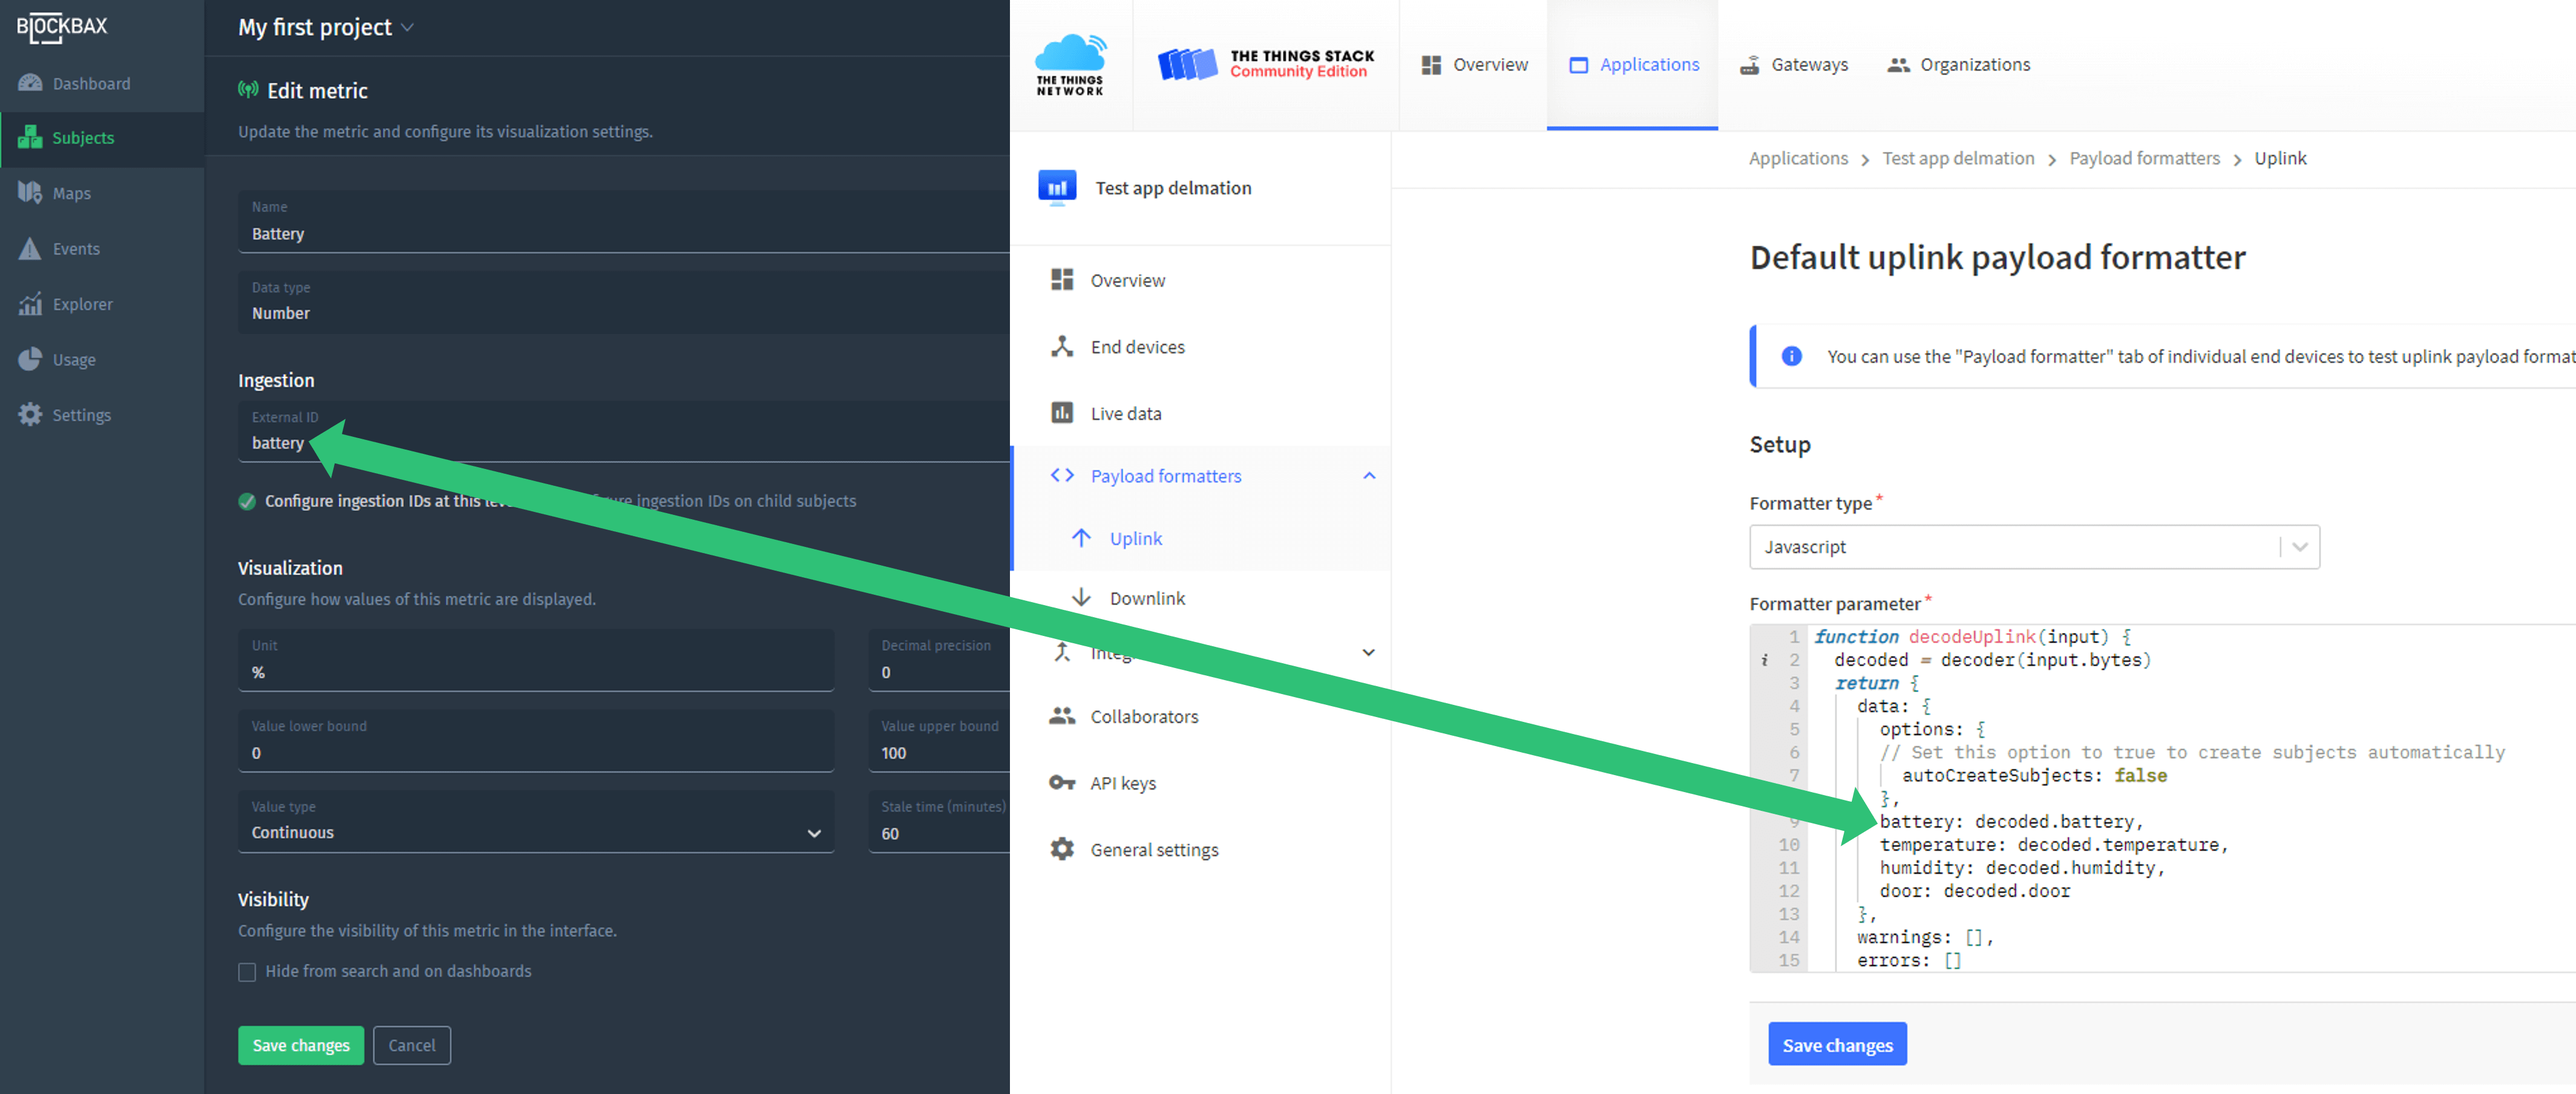
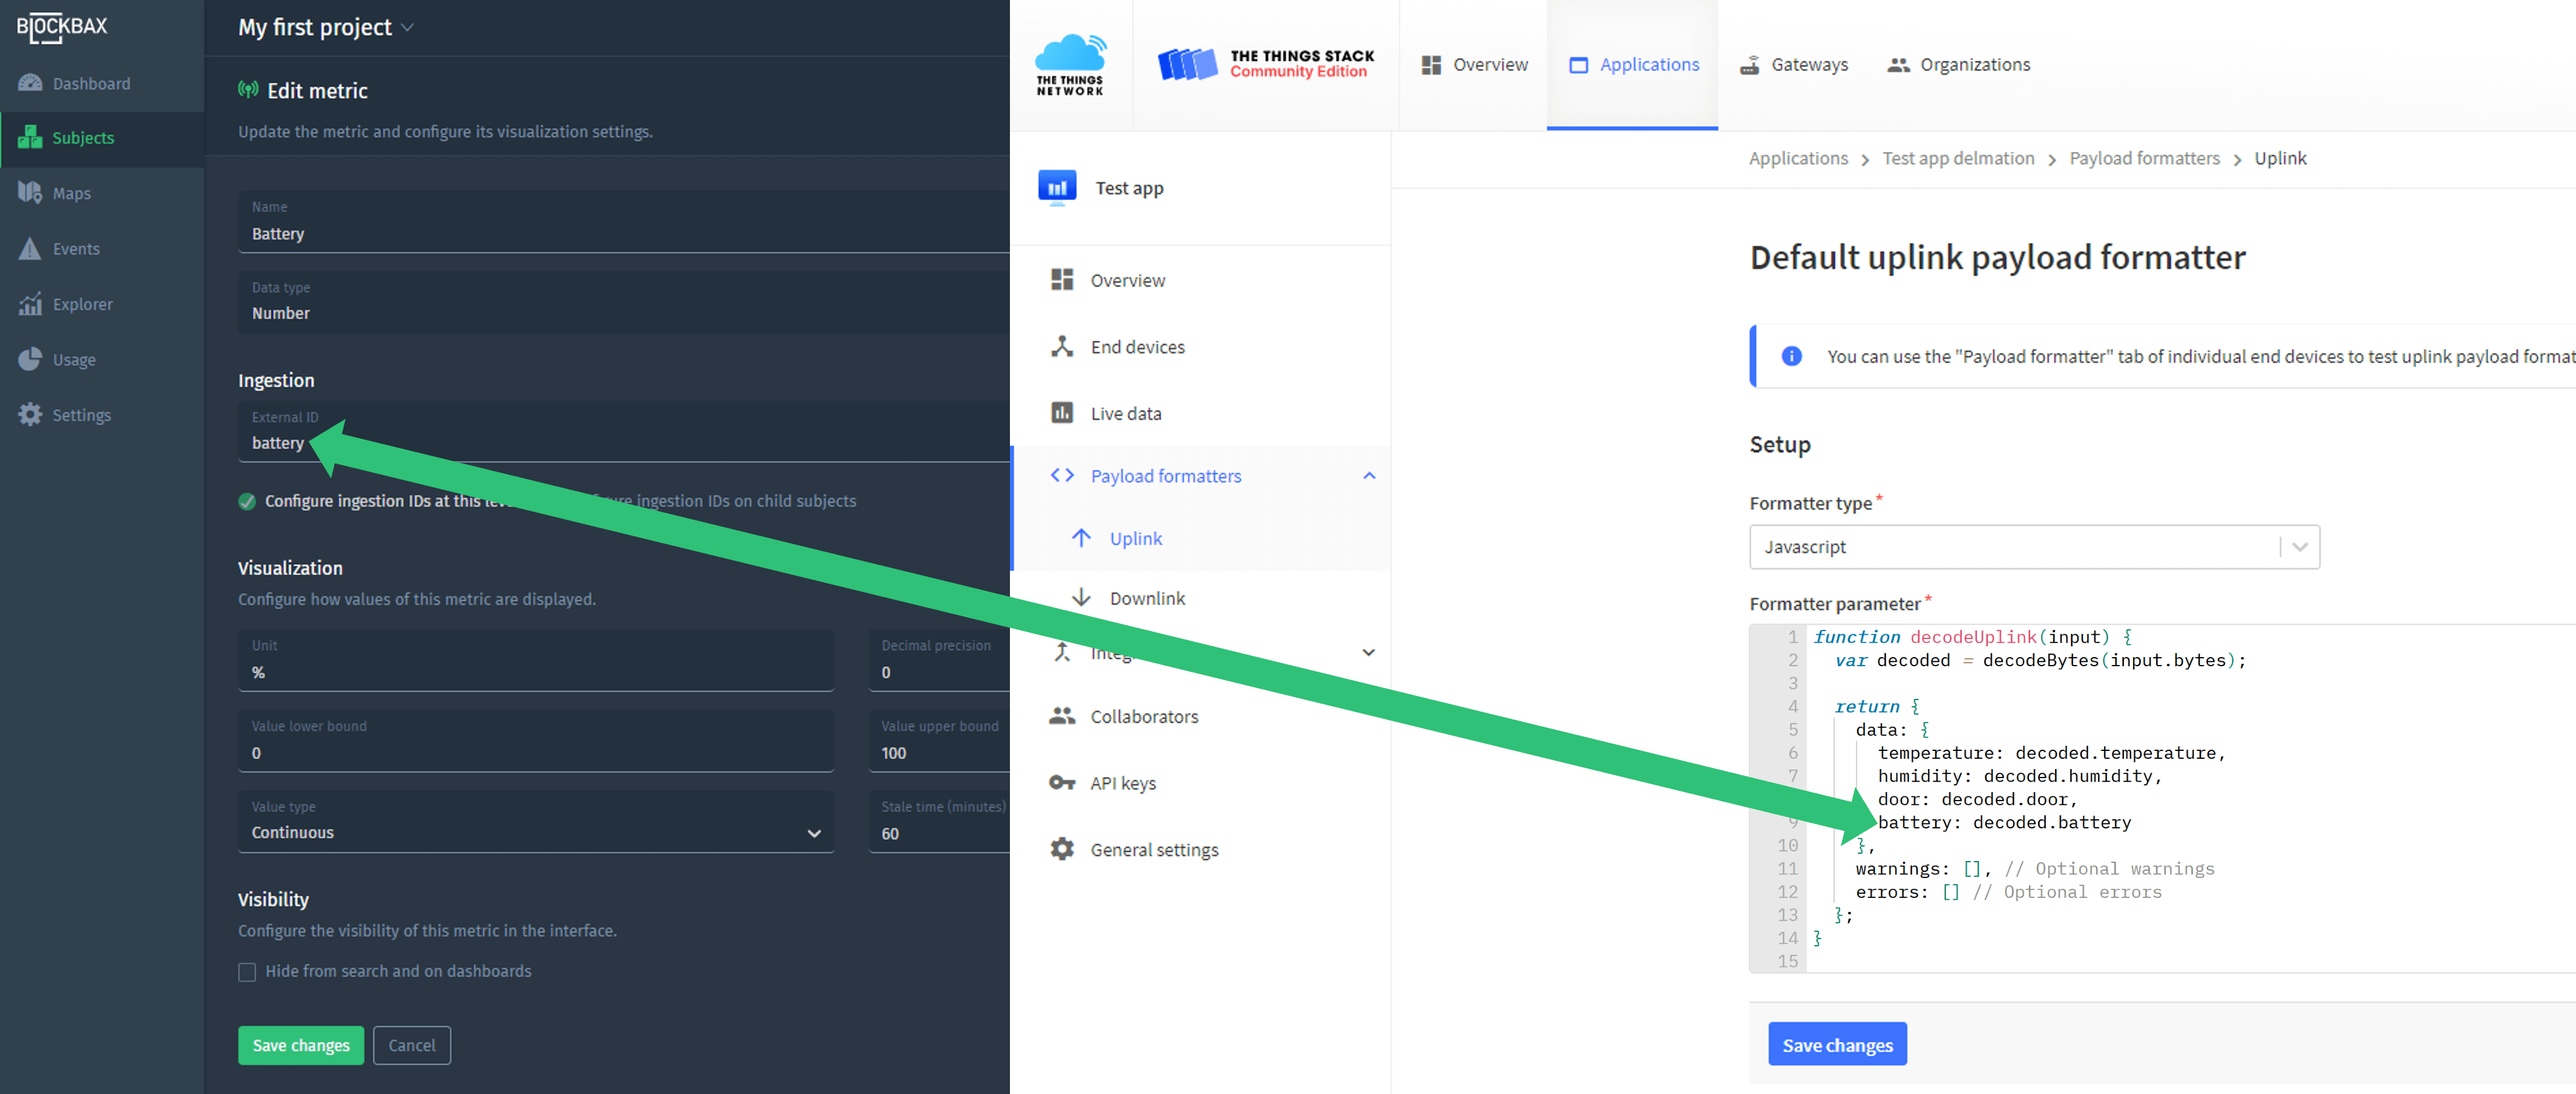
Deploying to gh-pages from  @ 398b8a2e4555d59659201c6cc4f7863cab75a40b 🚀

Changed region(s): [[0.6873, 0.5575, 0.9685, 0.8982], [0.4374, 0.1549, 0.4999, 0.1858]]

diff --git a/integrations/cloud-integrations/blockbax/index.html b/integrations/cloud-integrations/blockbax/index.html
@@ -288,15 +288,15 @@
 </ol>
 <h2 id="blockbax-setup">Blockbax Setup</h2>
 <p><a href="https://login.blockbax.com/">Login</a> to the Blockbax Platform.</p>
-<p>Create a <a href="https://blockbax.com/docs/subjects/#managing-subject-types">subject type</a> and configure metrics. External IDs for these metrics  need to match the property names returned by the uplink payload formatter that will be <a href="https://www.thethingsindustries.com/docs/integrations/cloud-integrations/blockbax/#configure-the-things-stack">configured on The Things Stack</a>.</p>
+<p>Create a <a href="https://blockbax.com/docs/subjects/#managing-subject-types">subject type</a> and configure metrics. External IDs for these metrics need to match the property names returned by the uplink payload formatter that will be <a href="https://www.thethingsindustries.com/docs/integrations/cloud-integrations/blockbax/#configure-the-things-stack">configured on The Things Stack</a>.</p>
 <figure>
     <img src="blockbax-metric-external-id-in-payload.png"
          alt="Relating Blockbax metrics to the Things Stack"/> 
 </figure>
 
-<p>Additionally, you can choose to <a href="https://blockbax.com/docs/subjects/#creating-subjects">create subjects</a> manually with external IDs matching the device IDs. You can also set the <code>autoCreateSubjects</code> option in The Things Stack payload formatter function to <code>true</code>, so in case a subject does not exist, an automatic subject creation will be performed.</p>
 <h2 id="configure-the-things-stack">Configure The Things Stack</h2>
-<p>Make sure your device is added to The Things Stack. See <a href="https://www.thethingsindustries.com/docs/devices/adding-devices/">Adding Devices</a> for more info.</p>
+<p>Make sure your device is added to The Things Stack. See <a href="https://www.thethingsindustries.com/docs/devices/adding-devices/">Adding Devices</a> for more info. Many <a href="https://www.thethingsindustries.com/docs/integrations/payload-formatters/device-repo/">Device Repository</a> payload formatters output payloads such that it can be directly ingested by the Blockbax Platform. If this is not the case, then please follow the instruction below to create a custom payload formatter.</p>
+<h3 id="create-payload-formatter">Create payload formatter</h3>
 <p>On the left menu of your The Things Stack application, select <strong>Payload formatters → Uplink</strong>.</p>
 <p>Select <strong>Javascript</strong> payload formatter type.</p>
 <p>Paste the following contents in the <strong>Formatter parameter</strong> window:</p>
@@ -304,11 +304,6 @@
     <span class="nx">decoded</span> <span class="o">=</span> <span class="nx">decoder</span><span class="p">(</span><span class="nx">input</span><span class="p">.</span><span class="nx">bytes</span><span class="p">)</span>
     <span class="k">return</span> <span class="p">{</span>
         <span class="nx">data</span><span class="o">:</span> <span class="p">{</span>
-            <span class="nx">options</span><span class="o">:</span> <span class="p">{</span>
-                <span class="c1">// Set this option to true to create subjects automatically
-</span><span class="c1"></span>                <span class="nx">autoCreateSubjects</span><span class="o">:</span> <span class="kc">false</span>
-            <span class="p">},</span>
-
             <span class="c1">// For numeric metrics
 </span><span class="c1"></span>            <span class="o">&lt;</span><span class="nx">Blockbax</span><span class="o">-</span><span class="nx">external</span><span class="o">-</span><span class="nx">metric</span><span class="o">-</span><span class="nx">ID</span><span class="o">&gt;:</span> <span class="nx">decoded</span><span class="p">.</span><span class="nx">exampleNumber</span><span class="p">,</span>
 
@@ -334,10 +329,6 @@
       <span class="nx">decoded</span> <span class="o">=</span> <span class="nx">decoder</span><span class="p">(</span><span class="nx">input</span><span class="p">.</span><span class="nx">bytes</span><span class="p">)</span>
       <span class="k">return</span> <span class="p">{</span>
         <span class="nx">data</span><span class="o">:</span> <span class="p">{</span>
-          <span class="nx">options</span><span class="o">:</span> <span class="p">{</span>
-          <span class="c1">// Set this option to true to create subjects automatically
-</span><span class="c1"></span>            <span class="nx">autoCreateSubjects</span><span class="o">:</span> <span class="kc">false</span>
-          <span class="p">},</span>
           <span class="nx">battery</span><span class="o">:</span> <span class="nx">decoded</span><span class="p">.</span><span class="nx">battery</span><span class="p">,</span>
           <span class="nx">temperature</span><span class="o">:</span> <span class="nx">decoded</span><span class="p">.</span><span class="nx">temperature</span><span class="p">,</span>
           <span class="nx">humidity</span><span class="o">:</span> <span class="nx">decoded</span><span class="p">.</span><span class="nx">humidity</span><span class="p">,</span>
@@ -400,8 +391,15 @@
          alt="Setting up the payload formatter"/> 
 </figure>
 
-<p>After preparing the payload formatter, use the Blockbax <a href="https://www.thethingsindustries.com/docs/integrations/webhooks/webhook-templates/">Webhook template</a> to create a Webhook integration on The Things Stack. Select <strong>Integrations → Webhooks</strong> on the left hand menu. Click <strong>Add webhook</strong> and select the <strong>Blockbax</strong> tile.</p>
+<h3 id="create-webhook">Create webhook</h3>
+<p>Use the Blockbax <a href="https://www.thethingsindustries.com/docs/integrations/webhooks/webhook-templates/">Webhook template</a> to create a Webhook integration on The Things Stack. Select <strong>Integrations → Webhooks</strong> on the left hand menu. Click <strong>Add webhook</strong> and select the <strong>Blockbax</strong> tile.</p>
+<figure>
+    <img src="webhook.png"
+         alt="Setting up the webhook"/> 
+</figure>
+
 <p>Enter an arbitrary <strong>Webhook ID</strong>, enter your <strong>Project ID</strong> and <strong><a href="https://blockbax.com/docs/project-settings/#access-tokens">Access token</a></strong>. The project ID is contained in your project&rsquo;s URL, e.g. if the project URL is <code>app.blockbax.com/projects/40edc099-7a41-4af3-9fa4-2fa4bc23a87a/</code>, the project ID is <code>40edc099-7a41-4af3-9fa4-2fa4bc23a87a</code>.</p>
+<p>Additionally, you can choose to <a href="https://blockbax.com/docs/subjects/#creating-subjects">create subjects</a> manually with external IDs matching the device IDs. In that case set the <strong>Automatically create subjects?</strong> option to <code>false</code>. The default <code>true</code> will create a subject automatically if a subject does not exist and if the property names returned by the uplink payload formatter match the external IDs for these metrics in the Blockbax platform (see above).</p>
 <p>To see the values of all parameters of the Blockbax integration, click on the integration after you created it with the Webhook template.</p>
 <p>Once you have added the integration, check your Blockbax project to see the measurements coming in!</p>
         </div>
@@ -475,10 +473,10 @@
         <h3 class="title is-6">About this page</h3>
         <div class="content">
 <p class="is-size-7">
-  Last changed by Blockbax on 10 Dec 2021.
+  Last changed by Blockbax on 02 Feb 2022.
   <br>
-  <a href="https://github.com/TheThingsIndustries/lorawan-stack-docs/commit/54cd9268813162270d018b0bf01095ff2aa2e694">
-      doc: Document Blockbax integration (#674)
+  <a href="https://github.com/TheThingsIndustries/lorawan-stack-docs/commit/398b8a2e4555d59659201c6cc4f7863cab75a40b">
+      doc: Update Blockbax integration docs (#753)
     </a>
 </p>
 
